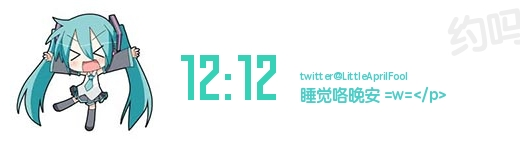
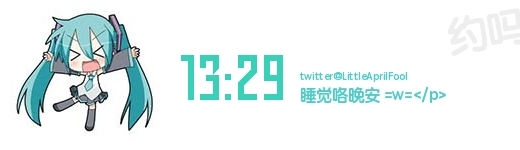
bug fixed

Changed region(s): [[0.3692, 0.3467, 0.5538, 0.6667]]

diff --git a/qmd.php b/qmd.php
@@ -10,7 +10,7 @@ echo $res[1];
 //set time zone
 date_default_timezone_set('America/Vancouver');
 
-//while(1){
+while(1){
 	
 	//remove old signature
 	unlink('/var/www/html/qmd/april_qmd.jpg');
@@ -94,5 +94,5 @@ date_default_timezone_set('America/Vancouver');
 	
 	//sleep an hour (to save CPU)
 	sleep(60);
-//}
+}
 ?>
